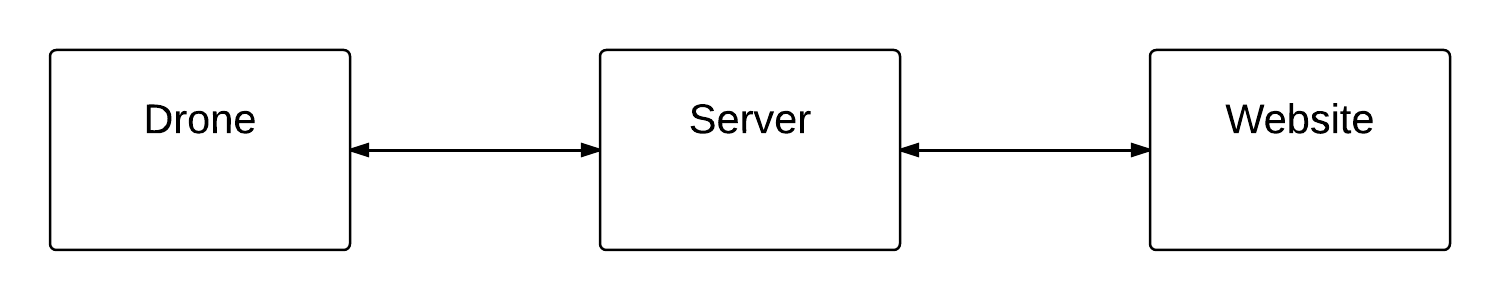
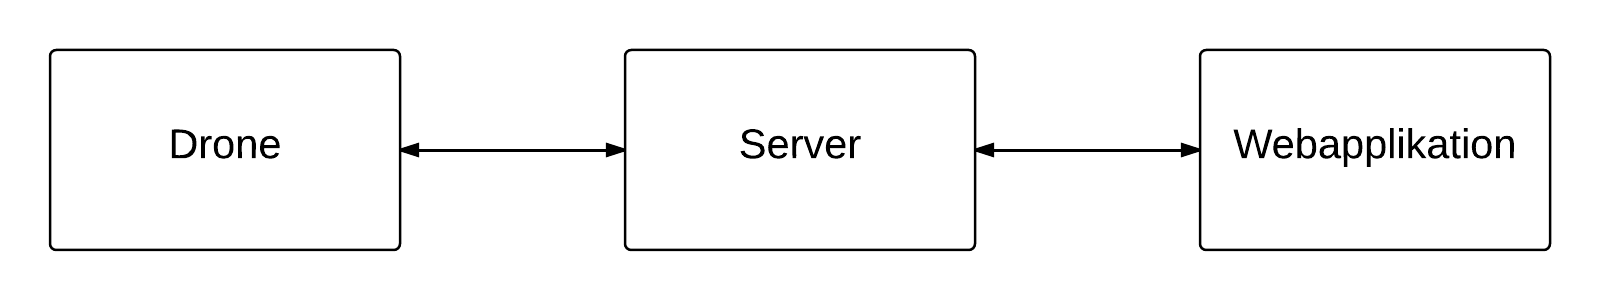
Har rettet logical view - iteration 1

diff --git a/5.Transition/Dokumentation/Systemarkitektur/Kapitler/software/views/procesview.tex b/5.Transition/Dokumentation/Systemarkitektur/Kapitler/software/views/procesview.tex
@@ -1,8 +1,8 @@
 \section{Process view}
 
-Ingen af systemets centrale dele gør brug af tråde. Men systemet er opbygget således at afvikling af drone, website og server kan betragtes som 3 samtidige processer. Alle 3 dele bruges sideløbende i runtime og imellem dem flyder løbende data.
+Ingen af systemets centrale dele gør brug af tråde. Men systemet er opbygget således at afvikling af drone, webapplikation og server kan betragtes som 3 samtidige processer. Alle 3 dele bruges sideløbende i runtime og imellem dem flyder løbende data.
 
-For systemets bruger ser det ud som om al information går direkte fra website til drone eller omvendt. Men reelt set er websitet og drone aldrig i direkte kontakt med hinanden. I stedet går al kommunikation til og fra serveren, som fungerer som et kommunikationslag. 
+For systemets bruger ser det ud som om al information går direkte fra webapplikation til drone eller omvendt. Men reelt set er webapplikation og drone aldrig i direkte kontakt med hinanden. I stedet går al kommunikation til og fra serveren, som fungerer som et kommunikationslag. 
 
 \vspace{-5pt}
 \begin{figure}[H]
@@ -14,67 +14,74 @@ For systemets bruger ser det ud som om al information går direkte fra website t
 \end{figure}
 
 \textbf{Server}\\
-Serveren er passiv, hvilket betyder den aldrig tager initiativ til udveksling af data. Serveren foretager ingenting på egen hånd, den står i stedet og venter på at blive igangsat af drone eller website. 
+Serveren er passiv, hvilket betyder den aldrig tager initiativ til udveksling af data. Serveren foretager ingenting på egen hånd, den står i stedet og venter på at blive igangsat af drone eller webapplikation. 
  
 \textbf{Drone} \\
 I drone processen håndteres al styring af drone og kommunikation mellem drone og server. Når dronen er tændt og 3G/GPS modulet initialiseret, opdaterer dronen med få minutters interval egen GPS position for efterfølgende at sende serveren information om positionen. Desuden kontrollerer dronen løbende om der er en ny flyveopsætning tilgængelig på serveren. Hvis der er en ny flyveopsætning tilgængelig hentes den, og en ny flyvning påbegyndes. 
 
-\textbf{Website}\\
-Mellem server og website er der lavet en socket connection. Det betyder at indholdet af websitet opdateres hver gang der kommer nyt indhold på serveren. Desuden bruges websitet når systemets bruger ønsker at lave nye flyveopsætninger eller opdatere de nuværende.\\
+\textbf{Webapplikation}\\
+Mellem server og webapplikation er der lavet en socket connection. Det betyder at indholdet af webapplikationen opdateres hver gang der kommer nyt indhold på serveren. Desuden bruges webapplikationen når systemets bruger ønsker at lave nye flyveopsætninger eller opdatere de nuværende.\\
 
 
-Der er lagt megen energi i at designe og bygge systemet på en vis der tillader udvidelser og tilføjelser. Dels kan server nemt tilgås af flere forskellige websites og desuden kan websitet nemt håndtere flere droner og client’er samtidig.
+Der er lagt megen energi i at designe og bygge systemet på en vis der tillader udvidelser og tilføjelser. Dels kan server nemt tilgås af flere forskellige webapplikationer og desuden kan webapplikationen håndtere flere droner og clienter samtidig.
 
 \newpage
 \subsection{Kommunikations timing}
-For at de forskellige enheder i systemet kan kommunikere optimalt, er der blevet designet nogle bestemte kommunikations timing tabeller som skal overholders for at kunne kommunikere optimalt.\\
-Disse tabeller skal køres i følgende rækkefølge:
+For at kommunikationen mellem drone og server kan fungere optimalt, er der udformet kommunikations timings tabeller. Timings tabellerne foreskrive hvilke request drone skal sende til server og hvilke svar der forventes fra server. \\
+
+
+Nedenfor forklares kort hvordan drone kommunikerer med webapplikationen i forbindelse med en autonom flyvning.
 
 \begin{enumerate}
-	\item Dronen tændes
-	\item Handlingen i tabel et udføres og gentages hvert 5min
-	\item Handlingen i tabel to udføres og gentages hvert 5min
-	\item Handlingen i tabel to retunere andet end 0
-	\item Handlingen i tabel tre udføres
-	\item Dronen er nu klar til at flyve
-	\item Handlingen i tabel to gentages ikke mere
-	\item Efter flyvning gentages det hele, bortset fra step 1
-\end{enumerate}
+	\item Dronen tændes.
+	\item Handling i tabel \ref{tab:kom_drone_server_1} udføres og gentages efterfølgende hvert 5. minut.
+	\item Handling i tabel \ref{tab:kom_drone_server_2} udføres og gentages hvert 45. sekund indtil der returneres en anden værdi end 0 på NextEvent GET requestet.
+	\item Handling i tabel \ref{tab:kom_drone_server_3} udføres
+	\item Drone påbegynder flyvning
+\end{enumerate} 
+
+
+\vspace{0.5cm}
+
 
 \begin{table}[H]
 	\centering
-		\begin{tabular}{| m {1cm} | m {3cm} | m {4cm} | m {7cm} |}
+		\begin{tabular}{| m {1.5cm} | m {3.5cm} | m {3.5cm} | m {4.7cm} |}
 			\hline
-			Enhed & HTTP Request & Data & Handling \\ \hline
-			Drone & PUT & Online og Location & Opdatere sin position og sætter sig online\\ \hline
-			Server & Response & 200 OK & Giver ok svar tilbage \\ \hline
+			\textbf{Enhed} & \textbf{HTTP Request} & \textbf{Data} & \textbf{Handling} \\ \hline
+			Drone & PUT & Online og Location & Opdatere sin position \newline og sætter sig online\\ \hline
+			Server & Response & 200 OK & Giver ok svar \\ \hline
 		\end{tabular}
-	\caption{Kommunikation imellem drone og server step 1}
+	\caption{Kommunikation drone og server - step 1}
 	\label{tab:kom_drone_server_1}
 \end{table}
 
-\begin{table}[H]
-	\centering
-		\begin{tabular}{| m {1cm} | m {3cm} | m {4cm} | m {7cm} |}
-			\hline
-			Enhed & HTTP Request & Data & Handling \\ \hline
-			Drone & GET & NextEvent & Efterspørg nextevent værdig \\ \hline
-			Server & Response & NextEvent & Retunere drone data, med nextevent \\ \hline
-		\end{tabular}
-	\caption{Kommunikation imellem drone og server step 2}
-	\label{tab:kom_drone_server_2}
-\end{table}
+\vspace{0.5cm}
 
 \begin{table}[H]
 	\centering
-		\begin{tabular}{| m {1cm} | m {3cm} | m {4cm} | m {7cm} |}
+		\begin{tabular}{| m {1.5cm} | m {3.5cm} | m {3.5cm} | m {4.7cm} |}
 			\hline
-			Enhed & HTTP Request & Data & Handling \\ \hline
-			Drone & GET & Waypoint & Dronen henter waypoints tilhørende event\\ \hline
-			Server & Response & Waypoints & Retunere waypoints tilhørende event \\ \hline
-			Drone & PUT & NextEvent = 0 & Dronen ændre sin NextEvent værdig til 0 \\ \hline
-			Server & Response & 200 OK & Giver ok svar tilbage \\ \hline
+			\textbf{Enhed} & \textbf{HTTP Request} & \textbf{Data} & \textbf{Handling} \\ \hline
+			Drone & GET & NextEvent & Efterspørg nextevent værdig \\ \hline
+			Server & Response & NextEvent & Retunere drone data \newline med nextevent \\ \hline
 		\end{tabular}
-	\caption{Kommunikation imellem drone og server step 3}
+	\caption{Kommunikation imellem drone og server - step 2}
+	\label{tab:kom_drone_server_2}
+\end{table}
+
+\vspace{0.5cm}
+
+\begin{table}[H]
+	\centering
+		\begin{tabular}{| m {1.5cm} | m {3.5cm} | m {3.5cm} | m {4.7cm} |}
+			\hline
+			\textbf{Enhed} & \textbf{HTTP Request} & \textbf{Data} & \textbf{Handling} \\ \hline
+			Drone & GET & Waypoint & Dronen henter waypoints \newline tilhørende event\\ \hline
+			Server & Response & Waypoints & Retunere waypoints \newline tilhørende event \\ \hline
+			Drone & PUT & NextEvent = 0 & Dronen ændre sin \newline NextEvent værdig til 0 \\ \hline
+			Server & Response & 200 OK & Giver ok svar \\ \hline
+		\end{tabular}
+	\caption{Kommunikation imellem drone og server - step 3}
 	\label{tab:kom_drone_server_3}
 \end{table}

diff --git a/5.Transition/Dokumentation/Systemarkitektur/Kapitler/software/views/logicalview_iteration_1.tex b/5.Transition/Dokumentation/Systemarkitektur/Kapitler/software/views/logicalview_iteration_1.tex
@@ -1,6 +1,6 @@
 \subsection{Iteration \#1}
 \vspace{-0.6cm}
-I iteration 1 arbejdes der med blokke som dækker over systemets mest grundlæggende funktionalitet. Batteri, ESC’er, motorer og sensorer tilsluttes dronen, og dronen gøres desuden i stand til oprette forbindelse til webapplikationen via 3G-shield’et.
+I iteration 1 arbejdes der med blokke som dækker systemets mest grundlæggende funktionalitet. Batteri, ESC’er, motorer og sensorer tilsluttes dronen, og dronen gøres desuden i stand til oprette forbindelse til webapplikationen via 3G-shield’et.
 Server opsættes, så basal kommunikation mellem dronen og server er muligt, bla. skal det være muligt for dronen at uploade sin nuværende position til server. For flere detaljer vedrørende opsætning og funktionalitet af server henvises til data view'et. 
 
 \subsubsection*{User story}
@@ -59,7 +59,7 @@ Pakkens ansvar er kommunikation imellem database og server.
 
 \newpage
 \subsubsection*{Sekvensdiagram drone}
-På sekvensdiagrammet på figur \ref{fig:Sekvens_diagram_iteration1}, vises hvilke klasser der indgår og bruges i første iteration. Af sekvensdiagrammet fremgår det, at sekvensen først startes når bruger tilslutter batteri og tænder dronen. Når der er tilkoblet forsyning initialiseres main controller samt 3G/GPS og nuværende GPS position  (longitude og latitude) opdateres. Dronens nuværende GPS position sended via PUT requests til webapplikationen. PUT requests bruges dels til at fortælle webapplikationen at dronen er online og dels til at give webapplikationen information om dronens nuværende position. 
+På sekvensdiagrammet på figur \ref{fig:Sekvens_diagram_iteration1}, vises hvilke klasser der indgår og bruges i første iteration. Af sekvensdiagrammet fremgår det, at sekvensen først startes når bruger tilslutter batteri og tænder dronen. Når der er tilkoblet forsyning initialiseres main controller samt 3G/GPS modulet og nuværende GPS position  (longitude og latitude) opdateres. Dronens nuværende GPS position sendes via PUT request til webapplikationen. PUT requestet bruges dels til at fortælle webapplikationen at dronen er online og dels til at give webapplikationen information om dronens nuværende position. 
 
 %kommentar
 \begin{figure}[H]
@@ -96,7 +96,7 @@ Sekvensdiagrammet på figur \ref{fig:Sekvens_diagram_putDroneStatus} viser hvilk
 \newpage
 
 \subsubsection*{Sekvensdiagram webapplikation}
-På figur \ref{fig:Sekvens_diagram_login} ses sekvens diagrammet over login på webappplikationen. På diagrammet vises det at systemets bruger først bliver ført til næste side ved succesfuld login. Diagrammet viser også kommunikationen med CRUDServiceDrone som kommunikerer med databasen. Ydermere viser diagrammet hvordan AuthenticationServices håndterer bruger data.
+På figur \ref{fig:Sekvens_diagram_login} ses sekvens diagrammet over login på webappplikationen. På diagrammet vises det at systemets bruger først bliver ført til næste side ved succesfuld login. Diagrammet viser også kommunikationen med CRUDServiceDrone og hvordan AuthenticationServices håndterer bruger data.
 
 \begin{figure}[H]
 	\centering
@@ -126,7 +126,7 @@ På figur \ref{fig:classDiagram_iteration1} vises et klassediagram som viser ite
 Main.cpp filen bruges til at sætte arduino board korrekt op, bla. sættes baudrate på de forskellige serielle forbindelser. Desuden bruges Main.cpp til at kalde og eksekverer forskellige klasse, objekter og funktioner.
 
 \textbf{GPS} \\
-GPS klassen er implementeret som en abstract klasse. Init og updateGPSPosition er lavet som virtuelle metoder, hvilket betyder de skal implementeres i alle afledte klasser. GPS klassen er lavet fordi 3G/GPS modulet kunne bruges i 3 forskellige GPS modes. 
+GPS klassen er implementeret som en abstract klasse. Init og updateGPSPosition er lavet som virtuelle metoder, hvilket betyder de skal implementeres i alle afledte klasser. GPS klassen er lavet fordi 3G/GPS modulet kan bruges i 3 forskellige GPS modes. 
 
 \textbf{StandaloneGPS}\\
 Denne klasse er ansvarlig for al kommunikation med GPS'en når standalone mode er valgt. 
@@ -138,14 +138,14 @@ GetAndPut klassen er den klasse der er tættest på hardwaren. Klassen indeholde
 Communication klassen styrer alt der har med 3G kommunikation at gøre.
 
 \textbf{EventHandler} \\
-EventHandler klassen håndterer Events, og bruges som bindeled mellem communication- og GetAndPut klassen. EventHandleren sorterer eventID'et fra data der modtages og returnerer værdien af eventID til communication klassen. 
+EventHandler klassen håndterer Events, og bruges som bindeled mellem communication- og GetAndPut klassen. EventHandleren sorterer eventID'et fra data der modtages fra server og returnerer værdien af eventID til communication klassen. 
 
 
 \newpage
 
 \subsubsection*{Klassediagram webapplikation}
 \vspace{-0.3cm}
-Figur \ref{fig:classDiagram_webapplikation} viser klassediagrammet tilhørende webapplikation tilhørende iteration 1.
+Figur \ref{fig:classDiagram_webapplikation} viser klassediagrammet tilhørende webapplikation til iteration 1.
 
 \vspace{-0.2cm}
 \begin{figure}[H]
@@ -159,10 +159,10 @@ Figur \ref{fig:classDiagram_webapplikation} viser klassediagrammet tilhørende w
 \vspace{-0.2cm}
 
 \textbf{login} \\
-Denne klasse er view'et tilhørende iteration 1. Sammen med loginCtrl skaber Login klassen det view som bruger ser i sin browser.
+Denne klasse indeholder view'et til webapplikationen, og udgør sammen med loginCtrl klassen GUI på webapplikationen. 
 
 \textbf{loginCtrl} \\
-LoginCtrl er en controller klasse som er forbundet med view klassen via two-way databinding. Klassen uddelegere også opgaver til dens services.
+LoginCtrl er en controller klasse som er forbundet med view klassen via two-way databinding. Desuden uddelegere klassen opgaver til de underliggende services.
 
 \textbf{AuthenticationServices} \\
 AuthenticationServices klassen er ansvarlig for at afgøre om bruger er authenticated eller ej. Hvis bruger er authenticated bliver han/hun redirected til webapplikations home-page. Klassen gør brug af UserServices klassen til at gemme information om den bruger der er logget ind på webapplikationen.
@@ -176,7 +176,7 @@ Denne klasse bruges som bindeled imellem server og webapplikation, og indeholder
 
 \subsubsection*{State machine diagram}
 \vspace{-0.1cm}
-I state machine diagrammet på figur \ref{fig:Statemachine_iteration1}, vises de forskellige states der eksisterer i iteration 1 og hvordan flowet imellem dem ser ud. Der eksisterer givet vis kun 1 state i iteration 1, men state machinen er medtaget fordi der bygges ovenpå den i de efterfølgende iterationer.
+I state machine diagrammet på figur \ref{fig:Statemachine_iteration1}, vises de forskellige states der eksisterer i iteration 1. Der eksisterer givet vis kun 1 state i iteration 1, men state machinen er medtaget fordi der bygges ovenpå den i de efterfølgende iterationer.
 %kommentar
 \begin{figure}[H]
 	\centering

diff --git a/5.Transition/Dokumentation/Systemarkitektur/Kapitler/Intro/Intro_side.tex b/5.Transition/Dokumentation/Systemarkitektur/Kapitler/Intro/Intro_side.tex
@@ -3,29 +3,47 @@
 \section{Revisionshistorik}
 \begin{table}[H]
 	\centering
-		\begin{tabular}{|p{2 cm}|p{2 cm}|p{3 cm}|p{6 cm}|} 
+		\begin{tabular}{|p{1.7 cm}|p{2 cm}|p{2.5 cm}|p{6.8 cm}|} 
 		\hline
 			\textbf{Rev. Nr} & \textbf{Dato}		& \textbf{Initialer} 	& \textbf{Ændring} \\ \hline
-			1.0 	& 11-09-2014 & AO, KG, RL  & Oprettet dokument, og lavet udkast til blokdiagrammer.  \\ \hline
-			1.1 	& 16-09-2014 & AO, KG, RL  & Blokdiagrammer opdateret. 	\\ \hline
-			1.2 	& 22-09-2014 & AO, KG, RL  & Sekvens- og klassediagrammer \newline tilhørende første iteration tilføjet.	\\ \hline
+			1.0 	& 11-09-2014 & AO, KG, RL  & Oprettet dokument, og lavet udkast til hardware diagrammer.  \\ \hline
+			1.1 	& 16-09-2014 & KG, RL  & Opdateret block definition og internal block diagrammer. 	\\ \hline
+			1.2 	& 22-09-2014 & KG  & Tilføjet signal beskrivelse til alle hardware diagrammer. 	\\ \hline
+			
+			2.1 	& 29-09-2014 & AO, KG, RL  & Oprettet software afsnit. Påbegyndt logical view ved at tilføje designoverview og pakkediagrammer.	\\ \hline
+			2.2 	& 10-10-2014 & AO, KG, RL  & Tilføjet sekvens- og klassediagrammer tilhørende første iteration.	\\ \hline
+			2.3 	& 31-10-2014 & AO, KG, RL  & Tilføjet sekvens- og klassediagrammer tilhørende anden iteration.	\\ \hline
+			2.4 	& 11-11-2014 & AO, KG, RL  & Tilføjet sekvens- og klassediagrammer tilhørende tredje og fjerde iteration.	\\ \hline
+			2.5 	& 13-11-2014 & RL  & Tilføjet state machines til alle iterationer.	\\ \hline
+			2.6 	& 14-11-2014 & AO  & Tilføjet data view.	\\ \hline
+			2.7 	& 17-11-2014 & AO, RL  		& Tilføjet proces view.	\\ \hline
+			2.8 	& 25-11-2014 & AO, KG, RL  & Tilføjet deployment view.	\\ \hline
+			2.9 	& 28-11-2014 & AO, KG, RL  & Tilføjet implementation view.	\\ \hline
 		\end{tabular}
 	\caption{Revisionshistorik}
 	%\label{tab:TC1}
 \end{table}
+
 
 \vspace{1.5cm}
 
 \section{Ordforklaring}
 \begin{table}[H]
 	\centering
-		\begin{tabular}{|p{2.5cm}|p{4.5 cm}|p{6.5 cm}|} 
+		\begin{tabular}{|p{2.6cm}|p{4.5 cm}|p{6.5 cm}|} 
 		\hline
 			\textbf{Forkortelse} & \textbf{Betydning} & \textbf{Forklaring} \\ \hline
-			 bdd& Block definition diagram  & Viser systemet blokke  \\ \hline
-			 ibd& Internal block diagram & Viser ekstern og intern kommunikation tilhørende en blok. \\ \hline
-			 sd& Sekvens diagram & Bruges til at vise afvikling og timing af forskellige processer. \\ \hline
-			 stm& State machine diagram & Viser states i en given proces. \\ \hline
+			 Drone & Drone & Aeroquad ARF quadrocopter og \newline påmonteret hardware. \\ \hline
+			 Webapp & Webapplikation & Applikation som bruges til opsætning af nye flyvninger og monitorering af tidlige flyvninger. \\ \hline
+			 Server & Webserver & Server dækker over systemet database og tilhørende logik. \\ \hline
+			 Main controller & Main controller  & Main controller er en arduino mega2560. Main controlleren styrer dronen ud fra flyveopsætning og data fra diverse sensorer.   \\ \hline
+			 Flight control \newline board & Flight control board  & Boardet er købt sammen med quadrocopter hos aeroquad. Boardet bruges som mellemled mellem main controller og dronens motorer.  \\ \hline
+			 3G/GPS & 3G/GPS modul  & Dette modul er et 3G/GPS shield der påmonteres main controller  \\ \hline			 
+			 
+			 bdd& Block definition diagram  & bdd bruges til at vise systemets overordnede hardware blokke  \\ \hline
+			 ibd& Internal block diagram & ibd bruges til at vise ekstern og intern kommunikation tilhørende en eller flere blokke. \\ \hline
+			 sd& Sekvens diagram & Diagrammet bruges til at vise afvikling og timing af forskellige processer. \\ \hline
+			 stm& State machine diagram & stm viser states i en given proces. \\ \hline
 		\end{tabular}
 	\caption{Ordforklaring}
 	%\label{tab:TC1}

diff --git a/5.Transition/Dokumentation/Systemarkitektur/Kapitler/software/views/logicalview_iteration_2.tex b/5.Transition/Dokumentation/Systemarkitektur/Kapitler/software/views/logicalview_iteration_2.tex
@@ -1,6 +1,6 @@
 \subsection{Iteration \#2}
-I iteration 2 udvides systemet, så bruger kan logge på webapplikationen og lave flyveopsætninger, som dronen skal flyve efter. Funktionaliteten af webapplikationen udvides, så det bliver muligt at lave flyveopsætninger. Når en flyveopsætning er lavet, skal den gøres tilgængelig for dronen, hvilket kræver tilføjelser i kommunikationen mellem drone og server. 
-Desuden skal dronen finde egen GPS position, flyvehøjde og orientering. Ud fra viden om egen position, flyvehøjde og orientering skal dronen flyve til de lokationer som er fastsat i flyveopsætningen. 
+I iteration 2 udvides systemet, så bruger kan logge på webapplikationen og lave flyveopsætninger, som dronen skal flyve ud fra. Funktionaliteten af webapplikationen udvides, så det bliver muligt at lave flyveopsætninger. Når en flyveopsætning er lavet, skal den gøres tilgængelig for dronen, hvilket kræver tilføjelser i kommunikationen mellem drone og server. 
+Desuden skal dronen i denne iteration kunne finde egen GPS position, flyvehøjde og orientering. Ud fra viden om egen position, flyvehøjde og orientering skal dronen flyve til de lokationer som er fastsat i flyveopsætningen. 
 
 
 \subsubsection*{User story}
@@ -57,7 +57,7 @@ I dette afsnit vises pakkediagram tilhørende webapplikation. De pakker der vise
 \end{figure}
 
 \textbf{UserHandling}\\
-Pakkens ansvar er validering af login/log ud på websitet. Pakken har også ansvaret for at hente og gemme data om de forskellige brugere.
+Pakkens ansvar er validering af login/log ud på webapplikationen. Pakken har også ansvaret for at hente og gemme data om de forskellige brugere.
 
 \textbf{DatabaseHandling}\\
 Pakkens ansvar er kommunikation imellem databasen og serveren. 
@@ -207,7 +207,7 @@ EventHandler klassen håndterer Events, og bruges som bindeled mellem communicat
 
 \subsubsection*{Klassediagram webapplikation}
 \vspace{-0.1cm}
-På figur \ref{fig:classDiagram_home} ses klasse diagrammet tilhørende iteration 2 for websitet. Funktionaliteten af systemet er blevet udvidet, så der nu er overblik over droner i systemet og deres status. Desuden er der mulighed for at oprette events til bestemte droner. 
+På figur \ref{fig:classDiagram_home} ses klasse diagrammet tilhørende iteration 2 for webapplikationen. Funktionaliteten af systemet er blevet udvidet, så der nu er overblik over droner i systemet og deres status. Desuden er der mulighed for at oprette events til bestemte droner. 
 \begin{figure}[H]
 	\centering
 	\includegraphics[width=1.\textwidth]{Billeder/klasse_diagrammer/home_class_diagram.png}

diff --git a/5.Transition/Dokumentation/Systemarkitektur/Systemarkitektur.tex b/5.Transition/Dokumentation/Systemarkitektur/Systemarkitektur.tex
@@ -14,11 +14,11 @@
 
 
 
-\include{Kapitler/Intro/Intro_side}
-\include{Kapitler/domain_model}
-\include{Kapitler/BDD/BDD}
-\include{Kapitler/IBD/_IBD}
-\include{Kapitler/hardware/switchboard_design}
+%\include{Kapitler/Intro/Intro_side}
+%\include{Kapitler/domain_model}
+%\include{Kapitler/BDD/BDD}
+%\include{Kapitler/IBD/_IBD}
+%\include{Kapitler/hardware/switchboard_design}
 
 \include{kapitler/software/software}
 
